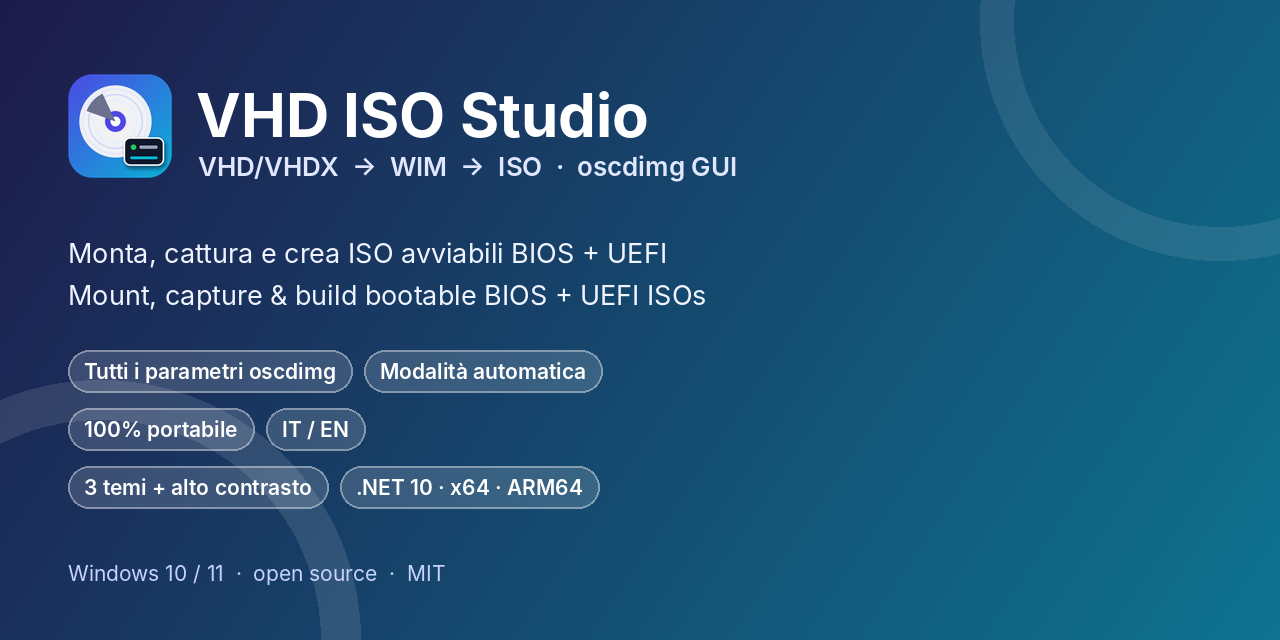
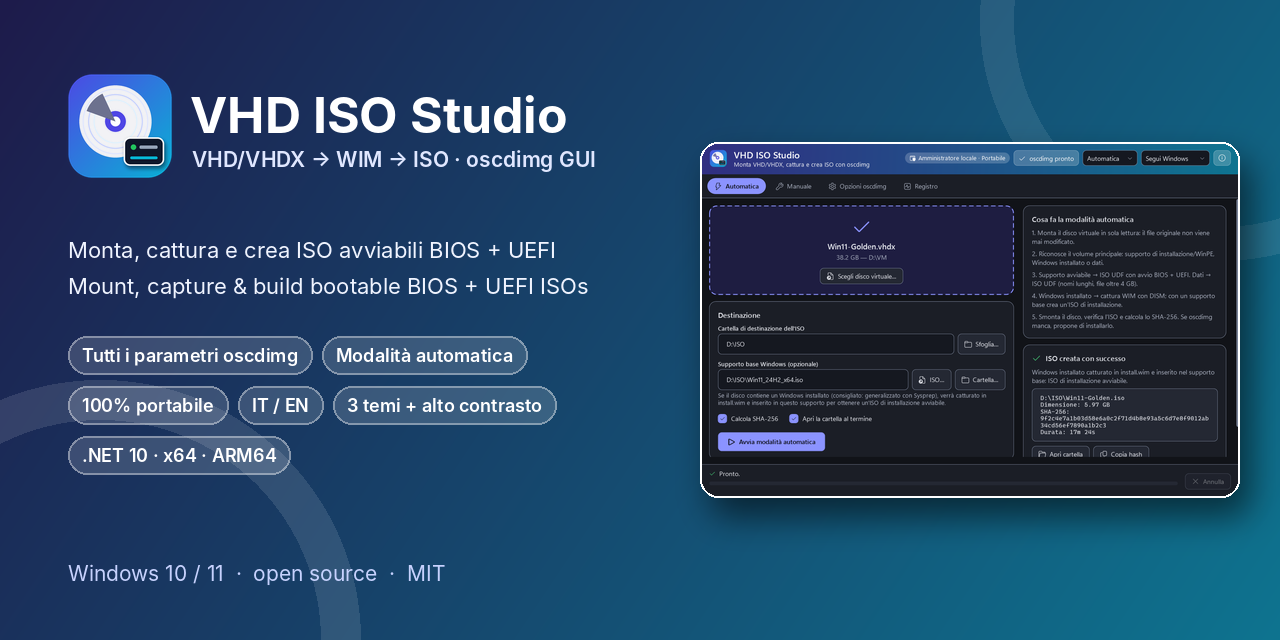
Social preview with real screenshot; balanced layout
Claude-Session: https://claude.ai/code/session_01KGR7EjQCzz8EdHbcmWxDzX

diff --git a/tools/make_social.py b/tools/make_social.py
@@ -57,29 +57,29 @@ def main():
 
     logo = Image.open(ROOT / "src/VhdIsoStudio/Assets/app.png").convert("RGBA").resize((112, 112), Image.LANCZOS)
     bg.alpha_composite(logo, (64, 70))
-    d.text((196, 78), "VHD ISO Studio", font=font(BOLD, 60), fill="white")
-    d.text((198, 150), "VHD/VHDX  →  WIM  →  ISO  ·  oscdimg GUI", font=font(SEMI, 26), fill=(224, 231, 255))
+    d.text((190, 84), "VHD ISO Studio", font=font(BOLD, 50), fill="white")
+    d.text((192, 146), "VHD/VHDX → WIM → ISO · oscdimg GUI", font=font(SEMI, 21), fill=(224, 231, 255))
 
     y = 236
     for line in ("Monta, cattura e crea ISO avviabili BIOS + UEFI",
                  "Mount, capture & build bootable BIOS + UEFI ISOs"):
-        d.text((68, y), line, font=font(REG, 27), fill=(240, 244, 255))
-        y += 42
+        d.text((68, y), line, font=font(REG, 22), fill=(240, 244, 255))
+        y += 36
 
     chips = ["Tutti i parametri oscdimg", "Modalità automatica", "100% portabile",
              "IT / EN", "3 temi + alto contrasto", ".NET 10 · x64 · ARM64"]
-    f = font(SEMI, 21)
+    f = font(SEMI, 18)
     layer = Image.new("RGBA", (W, H), (0, 0, 0, 0))
     ld = ImageDraw.Draw(layer)
-    x, y = 68, 350
+    x, y = 68, 336
     pos = []
     for c in chips:
         tw = ld.textlength(c, font=f)
-        if x + tw + 40 > 640:
-            x, y = 68, y + 58
-        ld.rounded_rectangle((x, y, x + tw + 32, y + 42), 21, fill=(255, 255, 255, 38), outline=(255, 255, 255, 120), width=2)
-        pos.append((x + 16, y + 8, c))
-        x += tw + 44
+        if x + tw + 40 > 630:
+            x, y = 68, y + 50
+        ld.rounded_rectangle((x, y, x + tw + 28, y + 38), 19, fill=(255, 255, 255, 38), outline=(255, 255, 255, 120), width=2)
+        pos.append((x + 14, y + 8, c))
+        x += tw + 38
     bg.alpha_composite(layer)
     d = ImageDraw.Draw(bg)
     for px_, py_, c in pos:
@@ -87,13 +87,13 @@ def main():
 
     d.text((68, 560), "Windows 10 / 11  ·  open source  ·  MIT", font=font(REG, 21), fill=(199, 210, 254))
 
-    shot_path = IMG / "auto-dark-it.png"
+    shot_path = IMG / "screenshots" / "auto-dark-it.png"
     if shot_path.exists():
         shot = Image.open(shot_path).convert("RGB")
-        sw = 600
+        sw = 540
         shot = shot.resize((sw, int(shot.height * sw / shot.width)), Image.LANCZOS)
         shot = rounded(shot, 18)
-        sx, sy = 650, 120
+        sx, sy = 700, (H - shot.height) // 2
         shadow = Image.new("RGBA", (W, H), (0, 0, 0, 0))
         ImageDraw.Draw(shadow).rounded_rectangle((sx + 10, sy + 18, sx + shot.width + 10, sy + shot.height + 18), 18, fill=(0, 0, 0, 140))
         bg.alpha_composite(shadow.filter(ImageFilter.GaussianBlur(16)))
